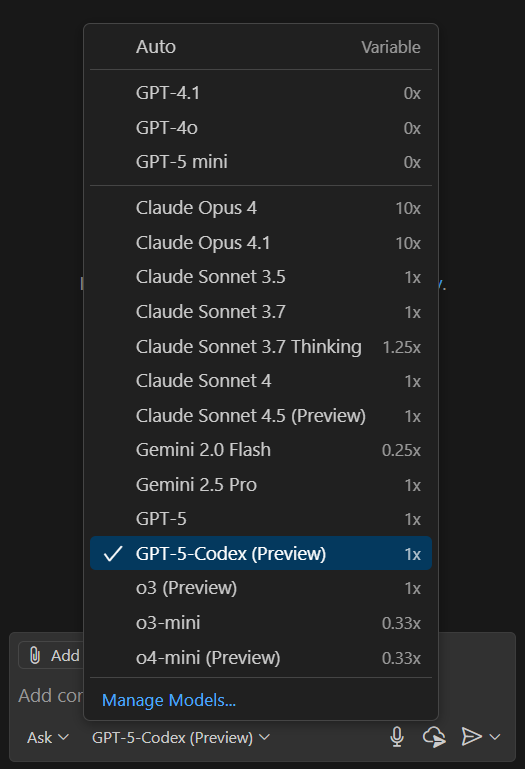
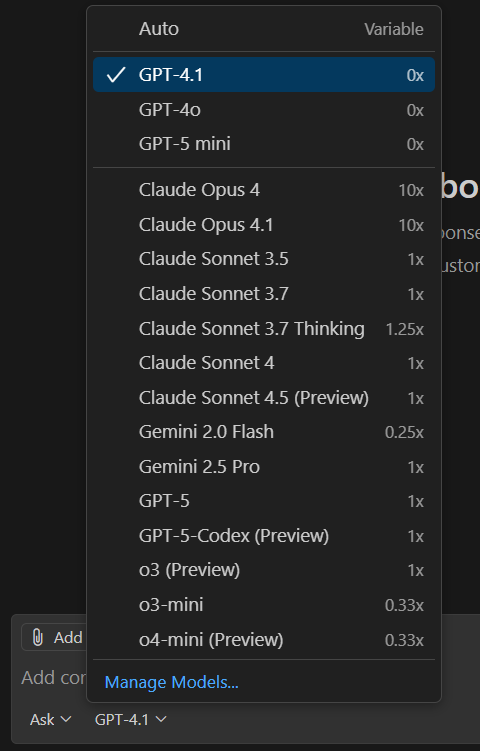
fixing model suggestion for copilot as gpt-5-codex is not available for free trials

diff --git a/docs/en/understanding-project.md b/docs/en/understanding-project.md
@@ -14,7 +14,7 @@ First, open GitHub Copilot by pressing `Ctrl + Alt + I` if you are on Windows, o
 ![An image showcasing the three different modes within the GitHub Copilot Chat window](./media/chat-mode-dropdown-ask.png "GitHub Copilot Modes")
 
 !!! Note
-GitHub Copilot is based on LLMs and therefore it has a non-deterministic behavior; you might get different responses to the same input prompt. The suggested prompts in this repo have been tested with model **GPT-5-Codex**, so you might want to choose that model from the dropdown menu. However, you are also welcome to explore different models.
+GitHub Copilot is based on LLMs and therefore it has a non-deterministic behavior; you might get different responses to the same input prompt. The suggested prompts in this repo have been tested with model **GPT-4.1**, so you might want to choose that model from the dropdown menu. However, you are also welcome to explore different models.
 
 ![Model choice dropdown](./media/model-choice-dropdown.png)
 
